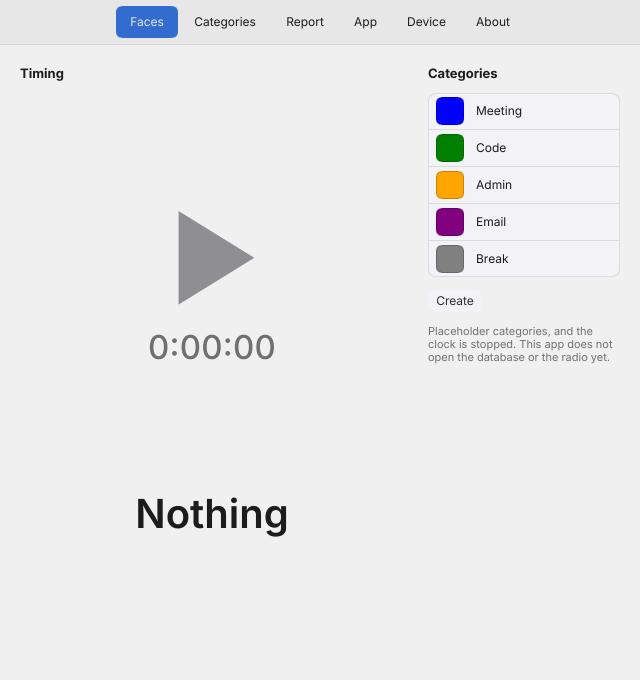
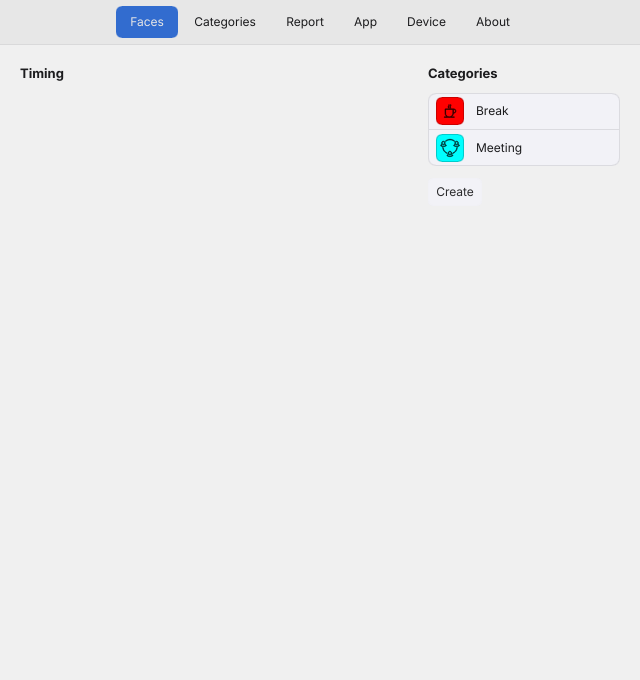
Re-render the Mac Settings tabs against a clean test database
The Faces tab now reads the database, so the render is taken with
FACET_DATABASE pointing at a test.sqlite rebuilt from the DDL by
scripts/switch-database.sh test -clean: the seeded Break and Meeting
with their icons, nothing being timed.

Only faces.png changed. The other five tabs came out byte-identical to
the previous Mac set. The README gives the two commands and marks
compare/faces.png stale until the Linux set is re-rendered the same way.

diff --git a/docs/settings-tabs/README.md b/docs/settings-tabs/README.md
@@ -6,16 +6,23 @@ compared rather than asserted. This answers item 7 of
 structurally true is not the same as true.
 
 ```sh
-cargo run -p facet-ui --example draw-settings-tabs   # writes target/settings-tabs/
+scripts/switch-database.sh test -clean
+FACET_DATABASE="<data directory>/appdata.sqlite" cargo run -p facet-ui --example draw-settings-tabs
 ```
 
-Then copy the six files into the folder for the machine you are on.
+Then copy the six files into the folder for the machine you are on. The data directory is
+`~/Library/Application Support/Facet` on the Mac and `~/.local/share/Facet` on Linux.
+
+**The Faces tab is drawn from a freshly built test database**, so both machines render the same rows: the
+seeded Break and Meeting, with their icons, and nothing being timed. Without `FACET_DATABASE` the tab draws
+no categories at all, and a database with anything else in it draws something the other machine cannot
+reproduce.
 
 | | |
 |---|---|
 | [`linux/`](linux/) | Linux Mint 22.3, MATE 1.26.1, X11, `x86_64`. Rendered 2026-09-25 at `759684b`, **with Inter packaged** |
-| [`mac/`](mac/) | macOS 26.6.2, Apple silicon, `arm64`. Rendered 2026-09-25 at `26b9f40`, **with Inter packaged** |
-| [`compare/`](compare/) | One image per tab: Mac, Linux, and the pixels that differ between them. Rebuilt 2026-09-25; **every diff panel is empty** |
+| [`mac/`](mac/) | macOS 26.6.2, Apple silicon, `arm64`. Rendered 2026-09-25 on `feature/faceTab` at `030f2ce`, against a clean test database |
+| [`compare/`](compare/) | One image per tab: Mac, Linux, and the pixels that differ between them. Rebuilt 2026-09-25; every diff panel was empty. **Stale for `faces.png`**: the Faces tab has changed since, and `linux/` has not been re-rendered with it |
 
 **These are Slint's software renderer, not screenshots of the running app.** It draws into a buffer with
 no window server involved, so window chrome and compositing are out of the comparison.
